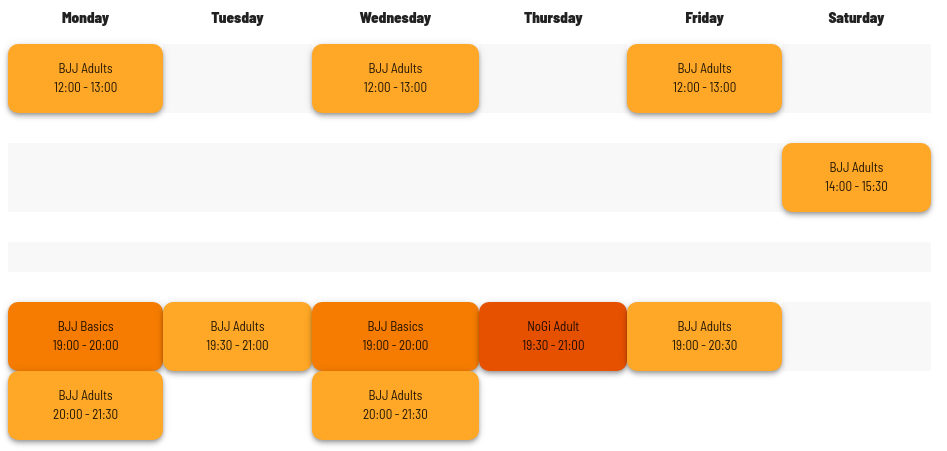
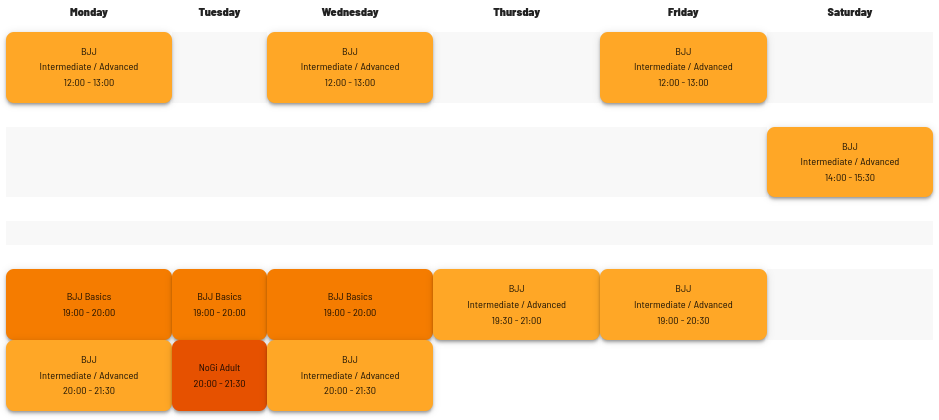
time table changes and fee changes

diff --git a/src/components/layout/AdultsTable.vue b/src/components/layout/AdultsTable.vue
@@ -12,17 +12,20 @@
     <tbody>
       <tr>
         <td class="center-align orange lighten-1 z-depth-2">
-          <p>BJJ Adults</p>
+          <p>BJJ</p>
+          <p>Intermediate / Advanced</p>
           <p>12:00 - 13:00</p>
         </td>
         <td></td>
         <td class="center-align orange lighten-1 z-depth-2">
-          <p>BJJ Adults</p>
+          <p>BJJ</p>
+          <p>Intermediate / Advanced</p>
           <p>12:00 - 13:00</p>
         </td>
         <td></td>
         <td class="center-align orange lighten-1 z-depth-2">
-          <p>BJJ Adults</p>
+          <p>BJJ</p>
+          <p>Intermediate / Advanced</p>
           <p>12:00 - 13:00</p>
         </td>
         <td></td>
@@ -37,7 +40,8 @@
         <td></td>
         <td></td>
         <td class="center-align orange lighten-1 z-depth-2">
-          <p>BJJ Adults</p>
+          <p>BJJ</p>
+          <p>Intermediate / Advanced</p>
           <p>14:00 - 15:30</p>
         </td>
       </tr>
@@ -55,32 +59,39 @@
           <p>BJJ Basics</p>
           <p>19:00 - 20:00</p>
         </td>
-        <td class="center-align orange lighten-1 z-depth-2">
-          <p>BJJ Adults</p>
-          <p>19:30 - 21:00</p>
+        <td class="center-align orange darken-2 z-depth-2">
+          <p>BJJ Basics</p>
+          <p>19:00 - 20:00</p>
         </td>
         <td class="center-align orange darken-2 z-depth-2">
           <p>BJJ Basics</p>
           <p>19:00 - 20:00</p>
         </td>
-        <td class="center-align orange darken-4 z-depth-2">
-          <p>NoGi Adult</p>
+        <td class="center-align orange lighten-1 z-depth-2">
+          <p>BJJ</p>
+          <p>Intermediate / Advanced</p>
           <p>19:30 - 21:00</p>
         </td>
         <td class="center-align orange lighten-1 z-depth-2">
-          <p>BJJ Adults</p>
+          <p>BJJ</p>
+          <p>Intermediate / Advanced</p>
           <p>19:00 - 20:30</p>
         </td>
         <td></td>
       </tr>
       <tr>
         <td class="center-align orange lighten-1 z-depth-2">
-          <p>BJJ Adults</p>
+          <p>BJJ</p>
+          <p>Intermediate / Advanced</p>
           <p>20:00 - 21:30</p>
         </td>
-        <td></td>
+        <td class="center-align orange darken-4 z-depth-2">
+          <p>NoGi Adult</p>
+          <p>20:00 - 21:30</p>
+        </td>
         <td class="center-align orange lighten-1 z-depth-2">
-          <p>BJJ Adults</p>
+          <p>BJJ</p>
+          <p>Intermediate / Advanced</p>
           <p>20:00 - 21:30</p>
         </td>
         <td></td>

diff --git a/src/components/layout/WarningCards.vue b/src/components/layout/WarningCards.vue
@@ -4,6 +4,7 @@
       <div class="section orange lighten-2">
         <i class="material-icons small">priority_high</i>
         <p>First Class is Always Free!</p>
+        <p>(if you do not have a Gi, 10€ fee for rent of a Gi)</p>
       </div>
     </div>
     <section class="section section-icons center">
